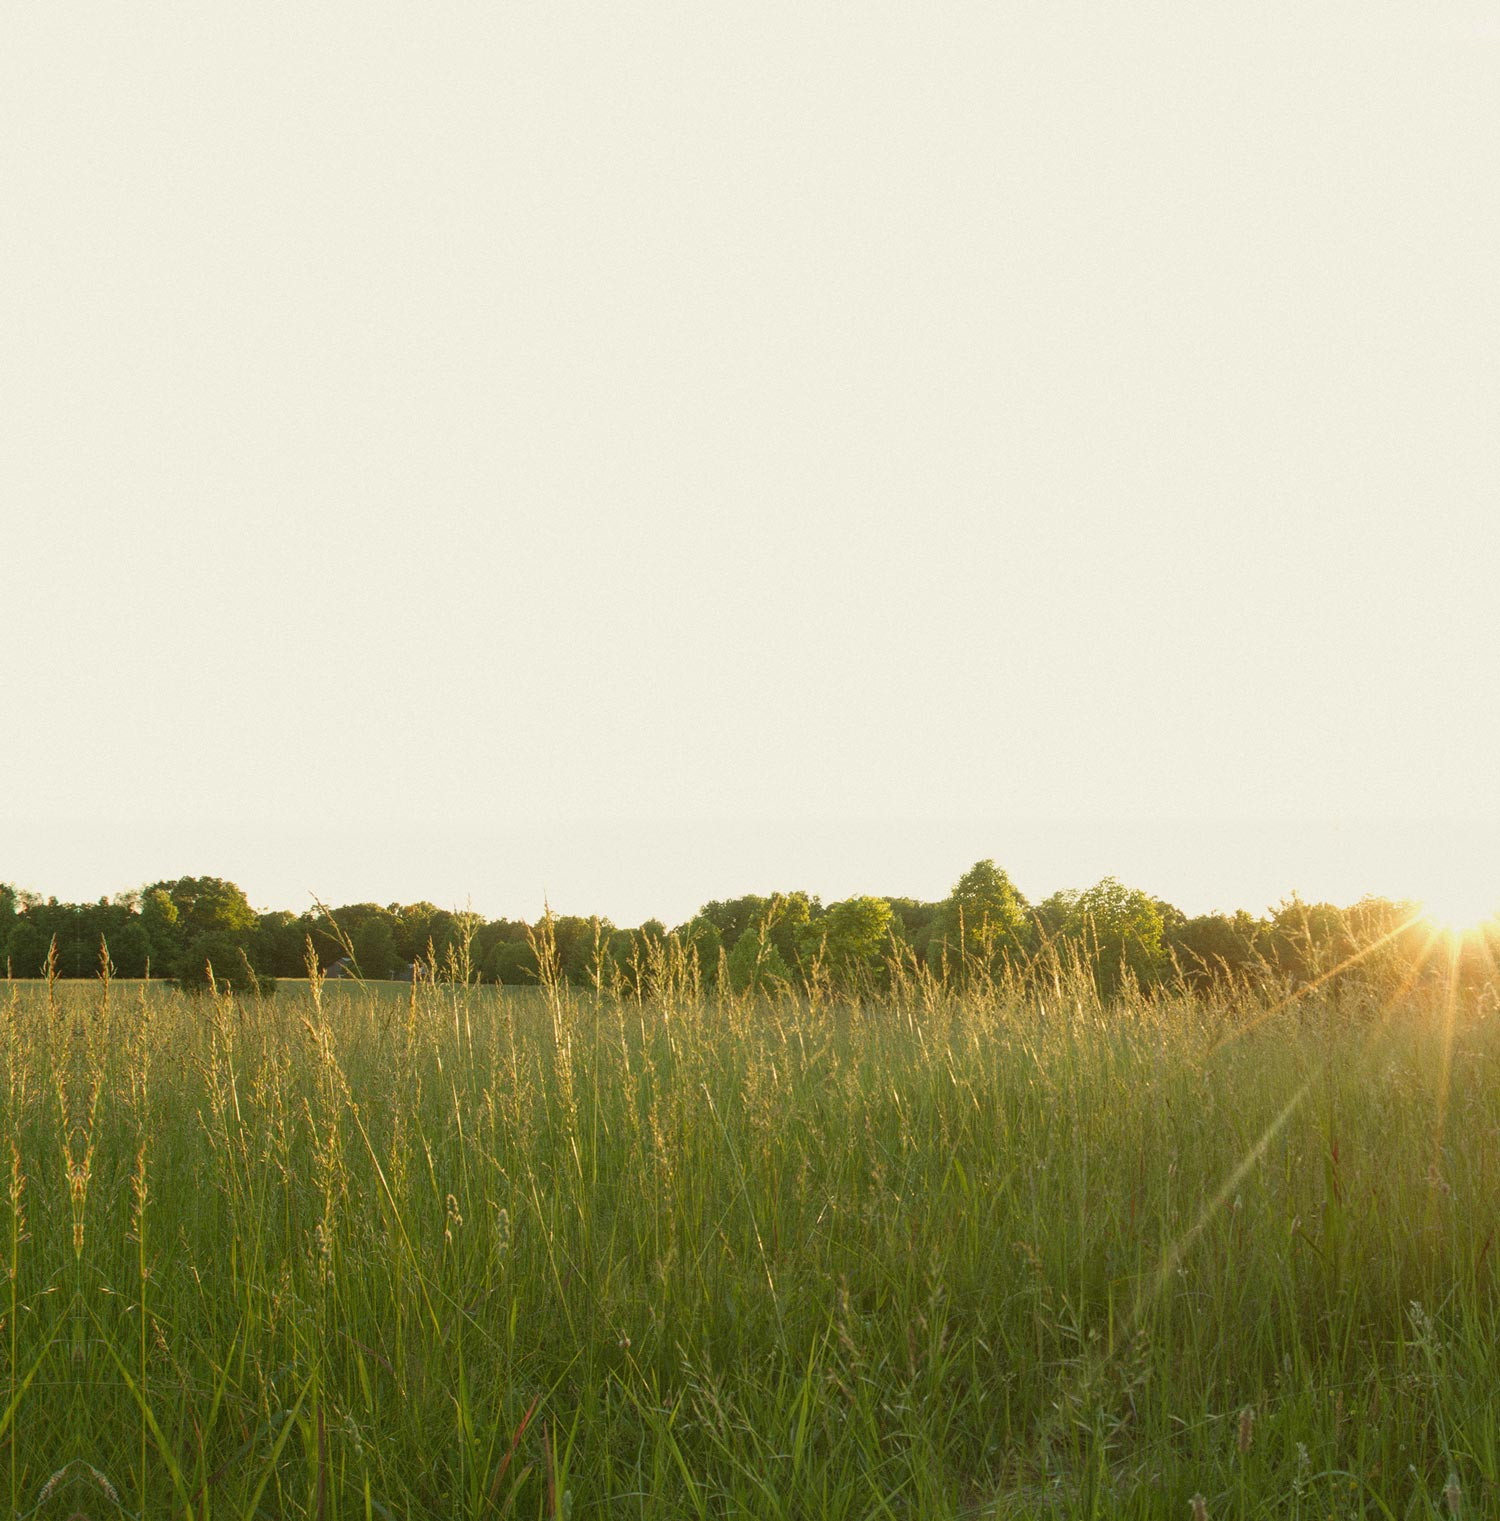
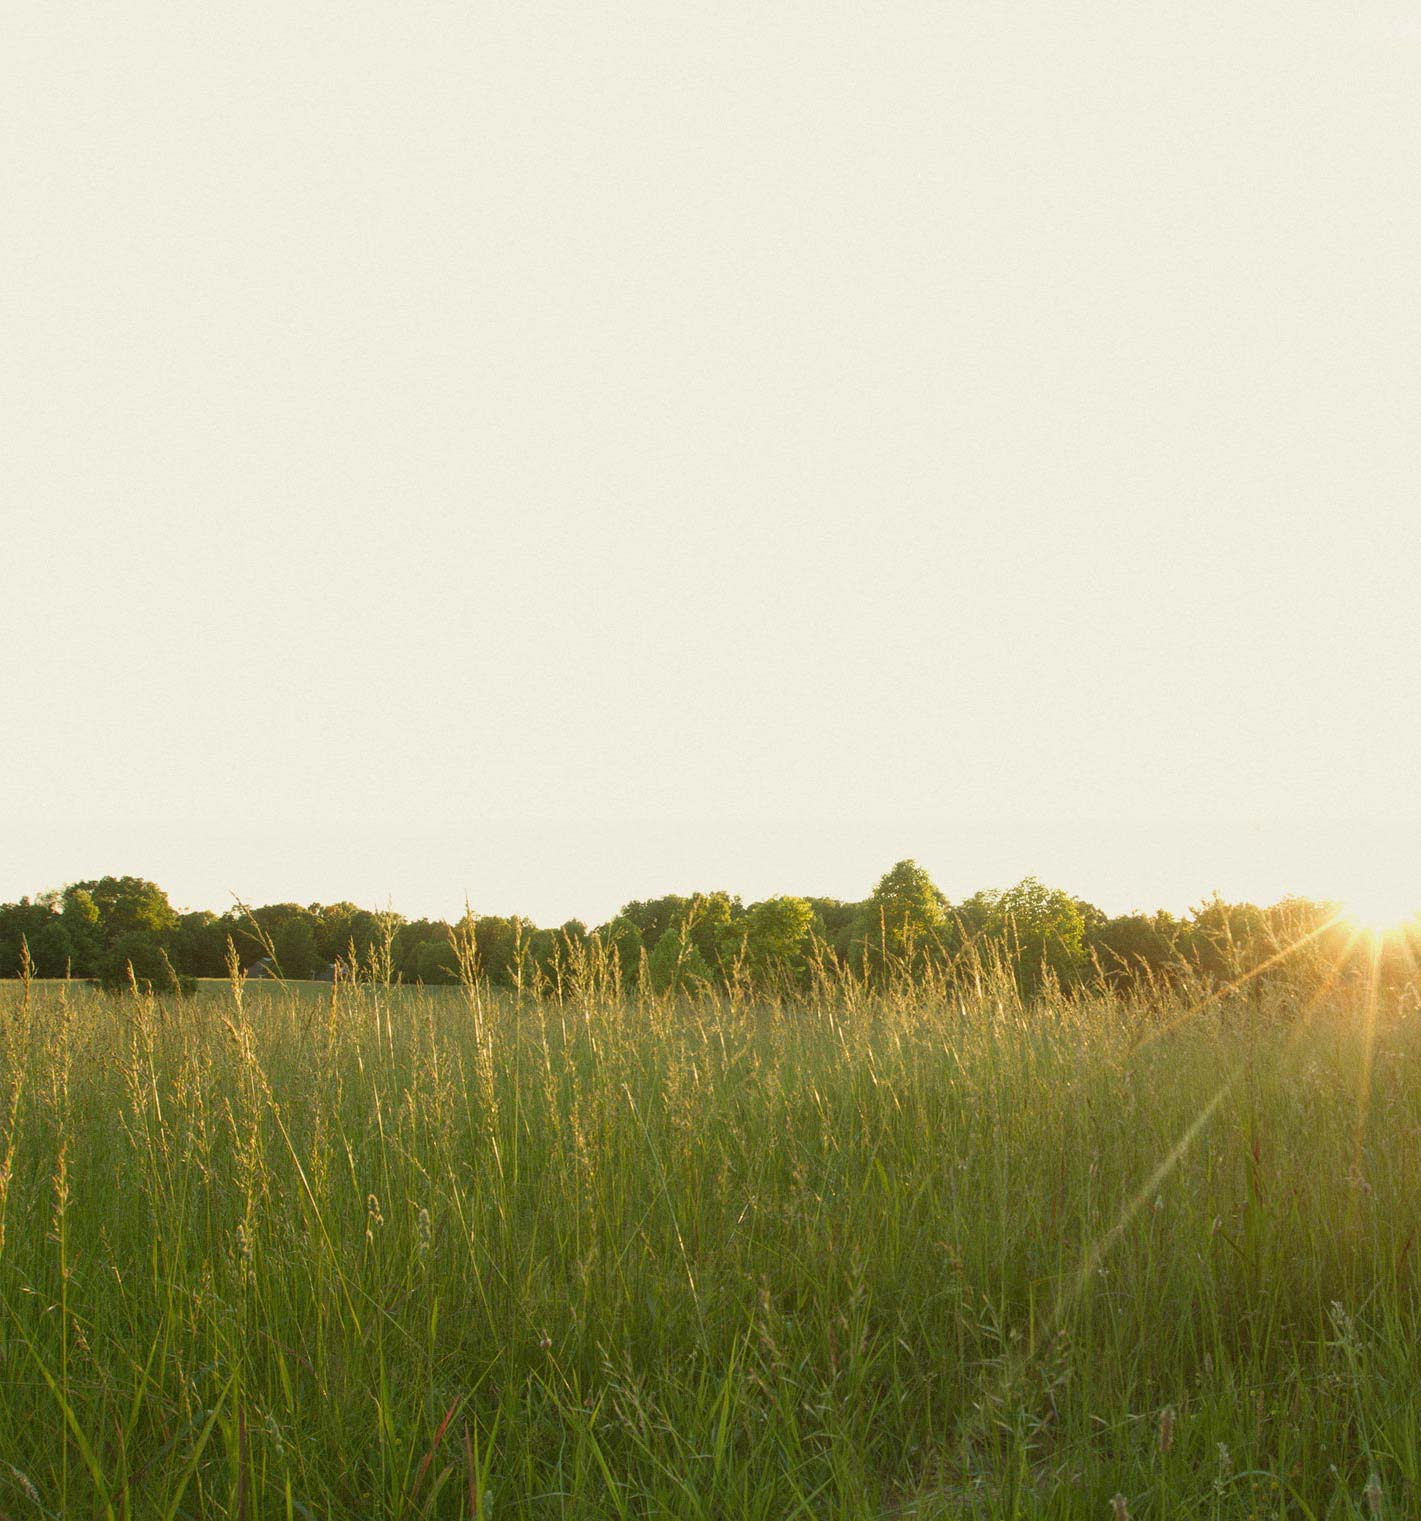
Navbar styling and new bg image again

Changed region(s): [[0.0, 0.5562, 0.9909, 1.0]]

diff --git a/assets/css/app.css b/assets/css/app.css
@@ -8,24 +8,44 @@
    ========================================================================== */
 
 body { }
+
 .col {margin:0 1%;}
 
-.wrap{
+.wrap {
    background: url(../img/bg-field.jpg) no-repeat;
-   background-position: bottom;
+   background-position: center center;
    background-size: cover;
 }
+
 body.home > header {
 margin-bottom: 0px;
 }
 
-h1{color:#A57513;}
-h3{
+h1 {color:#A57513;}
+
+h3 {
    font-size: 18px;
 }
-h4{
+
+h4 {
    font-size: 14px;
 }
+
+
+
+
+
+/* ==========================================================================
+   Navbar
+   ========================================================================== */
+
+.navbar-default {
+background-color: #988d71;
+background-image: url(../img/nav-bg.jpg) repeat-x;
+border-color: #988d71;
+height:25px;
+}
+
 /* ==========================================================================
    Home
    ========================================================================== */
